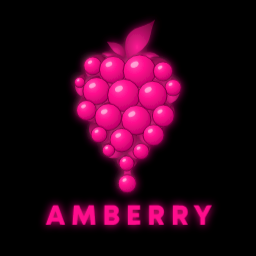
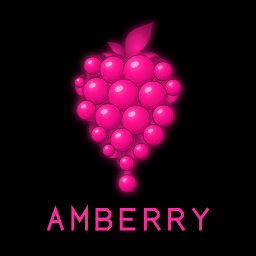
AMBERRY: надпись нарисована геометрией, парадный кадр перегенерён темнее
Три правки владельца, все приняты.

Шрифт. Надпись в векторе была обведена с картинки и потому кривая:
штрихи гуляли по толщине, овалы не совпадали, разрядка была неровной.
Теперь буквы строятся по сетке — высота прописной 100, ширина 70,
разрядка 54, толщина штриха одна на все семь. Ширина слова держится в
62 % кадра: шире лезет к краям, уже не читается.

Читаемость. Свечение стояло на всей группе и размывало буквы. Снято с
текста, оставлено только на ягоде.

Пересвет. Первый парадный кадр забивала розовая дымка: ягода тонула в
фоне, а буквы терялись в бликах пола. Перегенерён с чёрным фоном,
дымка сведена к узкой полосе у пола, под надписью пол очищен от
отражений и ряби. Заодно ушёл зеркальный дубль слова — он читался как
дефект.

Файл 70-hero заменён на hero, аватарки и data-URI перерисованы.
Тестов 35, все зелёные.

Claude-Session: https://claude.ai/code/session_014k3YT9DWK5PbNrwRgKykrK

Changed region(s): [[0.1562, 0.7812, 0.8438, 0.9062]]

diff --git a/rocket-panel/brand-amberry/brand.py b/rocket-panel/brand-amberry/brand.py
@@ -26,7 +26,7 @@ MUTE = "#8A8792"
 _ЗДЕСЬ = pathlib.Path(__file__).parent
 MARK_SVG = _ЗДЕСЬ / "amberry-mark.svg"        # вектор: знак + надпись
 AVATAR_PNG = _ЗДЕСЬ / "amberry-avatar-512.png"  # аватарка из вектора
-HERO_JPG = _ЗДЕСЬ / "amberry-70-hero.jpg"       # парадный рендер с фоном
+HERO_JPG = _ЗДЕСЬ / "amberry-hero.jpg"          # парадный рендер с фоном
 
 
 def logo_data_uri():

diff --git a/rocket-panel/brand-amberry/README.md b/rocket-panel/brand-amberry/README.md
@@ -48,7 +48,7 @@ STRAWBERRY — в этой нише заезжено.
 
 **Знак существует в двух видах, и это не дублирование.**
 
-**Растр (`amberry-70-hero.jpg`)** — парадный. Полный глянец, отражение,
+**Растр (`amberry-hero.jpg`)** — парадный. Полный глянец, отражение,
 рябь под каплей, янтарные блики в глубине. Это **аватарка бота и лицо в
 рекламе**: Телеграм всё равно показывает растр, так что здесь ничего не
 теряется.
@@ -73,13 +73,21 @@ STRAWBERRY — в этой нише заезжено.
    акценты интерфейса.
 3. Первый вектор вышел **плоским** и потерял весь глянец — ради
    которого знак и выбирали. Отсюда градиенты и блики.
+4. Надпись в векторе была **обведена с картинки** и потому кривая:
+   штрихи гуляли по толщине, овалы не совпадали, разрядка была
+   неровной. Теперь буквы строятся по сетке — высота прописной 100,
+   ширина 70, разрядка 54, толщина штриха одна на все. Свечение с
+   текста снято: оно его и размывало.
+5. Первый парадный кадр был **пересвечен** — розовая дымка забивала
+   ягоду, а буквы тонули в бликах пола. Перегенерён с чёрным фоном,
+   дымка убрана почти вся, под надписью пол очищен от отражений.
 
 Читается с 48 пикселей — проверено, `amberry-avatar-check.png`.
 
 | файл | зачем |
 |---|---|
 | `amberry-mark.svg` | вектор: знак + надпись. Иконка, печать, фавикон |
-| `amberry-70-hero.jpg` | парадный рендер с фоном. Аватарка, реклама |
+| `amberry-hero.jpg` | парадный рендер с фоном. Аватарка, реклама |
 | `amberry-71-flat.jpg` | образец, по которому снят вектор |
 | `amberry-avatar-512.png` · `-256.png` | готовые аватарки из вектора |
 | `amberry-logo-b64.txt` | data-URI для `<img src=...>` |
